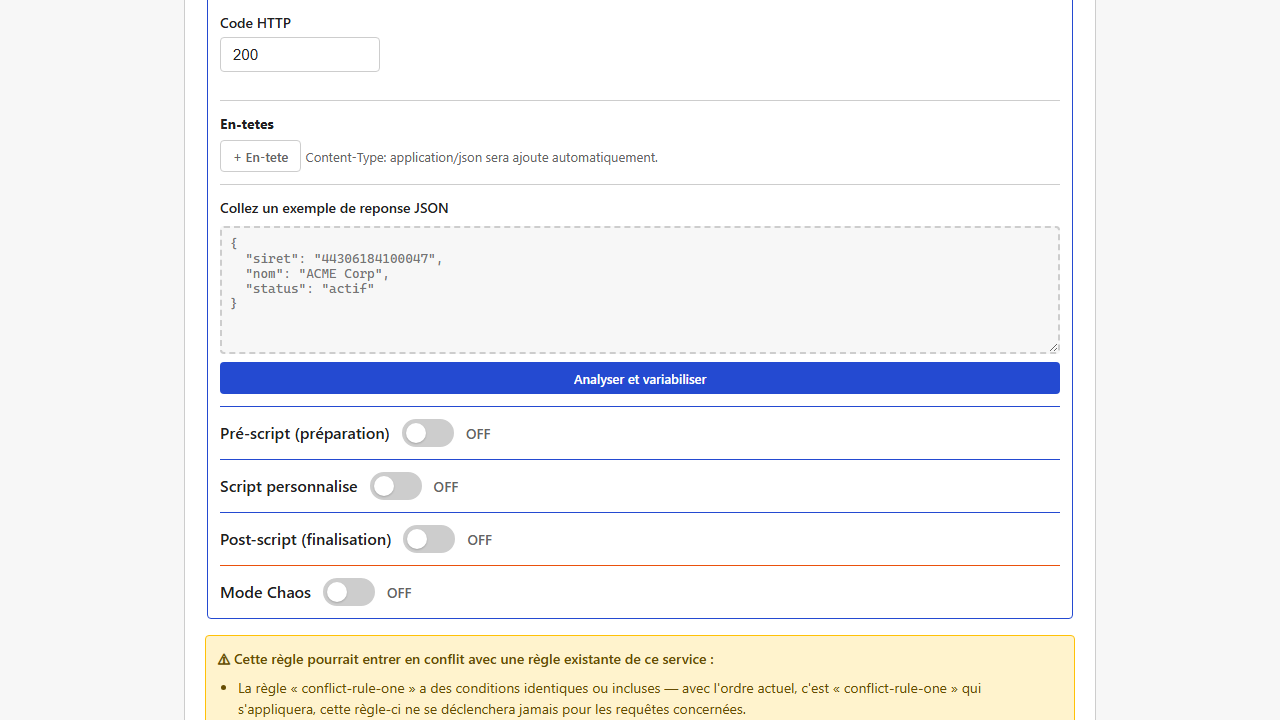
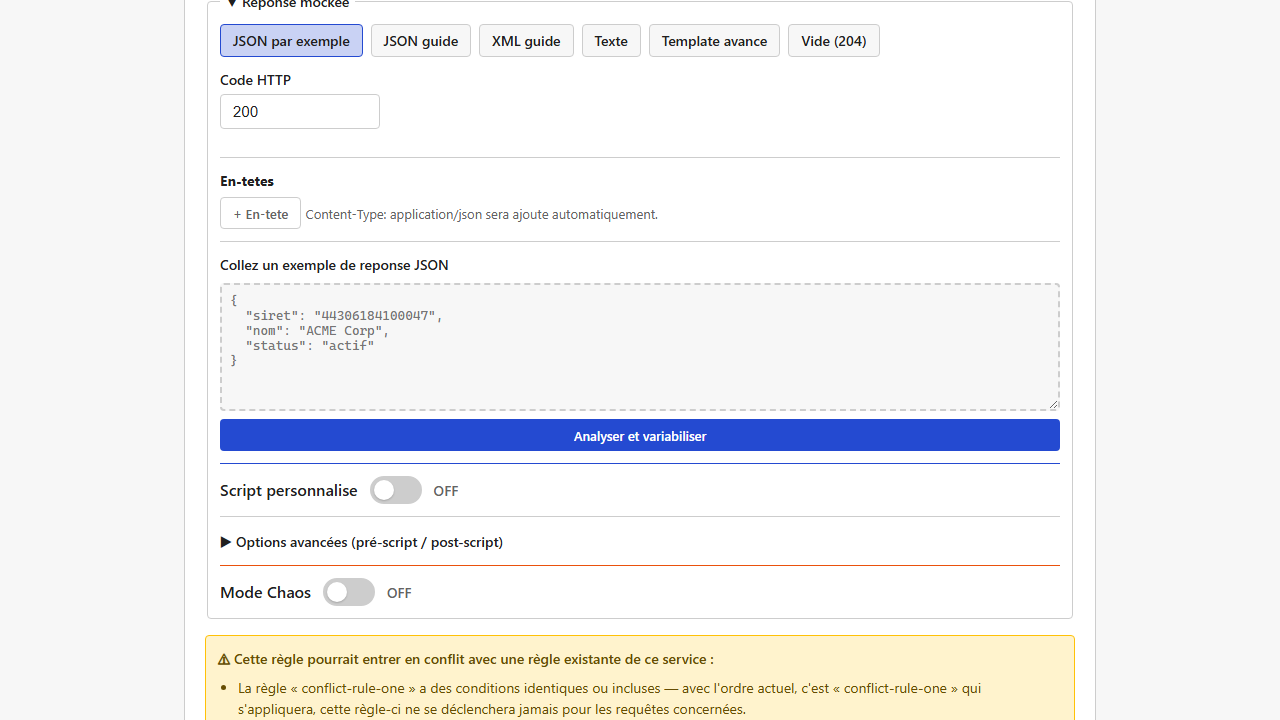
docs: met a jour la documentation utilisateur et les captures apres le pliage JSON/XML
Regenere les captures d'ecran qui montraient encore l'ancien formulaire de
regle (pre-script/post-script visibles directement, sans le panneau
"Options avancees" replie) et ajoute deux nouvelles captures illustrant le
pliage lui-meme (noeud JSON replie, options avancees repliees par defaut).
Les autres pages docs/ ont ete relues et ne nécessitaient aucun changement.

Changed region(s): [[0.1562, 0.2139, 0.8438, 0.7639], [0.1562, 0.0, 0.6875, 0.1833]]

diff --git a/docs/scripts-rhai.md b/docs/scripts-rhai.md
@@ -17,6 +17,8 @@ Ces trois blocs sont **totalement indépendants** : ils voient tous la même req
 
 > **Pré-script et Post-script sont repliés par défaut** derrière une zone "Options avancées" — la plupart des règles n'en ont pas besoin, seul le **Script** principal reste toujours visible. Cliquez sur "Options avancées (pré-script / post-script)" pour les afficher. Si vous modifiez une règle qui utilise déjà l'un des deux, la zone s'ouvre **automatiquement** à l'affichage : vous ne pouvez jamais tomber sur du contenu déjà configuré sans le voir. Replier/déplier n'efface jamais ce que vous avez saisi.
 
+![Options avancées repliées par défaut sur une nouvelle règle : seul le bouton "▶ Options avancées" est visible](screenshots/regle-options-avancees-repliees.png)
+
 *(Capture manquante — aucun scénario E2E existant n'active simultanément les 3 zones de script [pré-script/script/post-script sont des blocs repliés indépendamment, activés un par un dans les tests actuels] ; à réaliser manuellement, cf `frontend/e2e/README.md` section captures.)*
 
 Chaque bloc peut retourner :

diff --git a/docs/reponses-et-templates.md b/docs/reponses-et-templates.md
@@ -20,6 +20,8 @@ Pour naviguer dans une structure profondément imbriquée sans se perdre, un fil
 
 Chaque champ **objet** ou **tableau** (JSON comme XML) affiche aussi un petit **chevron** (▼/▶) à gauche : cliquez dessus pour **replier** ce champ et masquer temporairement son contenu — pratique une fois qu'une branche est déjà configurée et que vous voulez vous concentrer sur le reste sans la faire défiler à chaque fois. Un texte ("N masqué(s)") rappelle qu'il y a du contenu caché. Replier/déplier n'efface jamais rien : c'est un pur affichage, et tout reste déplié par défaut à l'ouverture du formulaire.
 
+![Champ JSON replié : le chevron pointe à droite et un indicateur signale le contenu masqué](screenshots/regle-json-noeud-replie.png)
+
 *(Capture manquante — aucun scénario E2E existant ne navigue dans le builder JSON guidé avec le fil d'Ariane ; à réaliser manuellement, cf `frontend/e2e/README.md` section captures.)*
 
 ### 2. Le mode "exemple d'abord" (coller un exemple existant)
